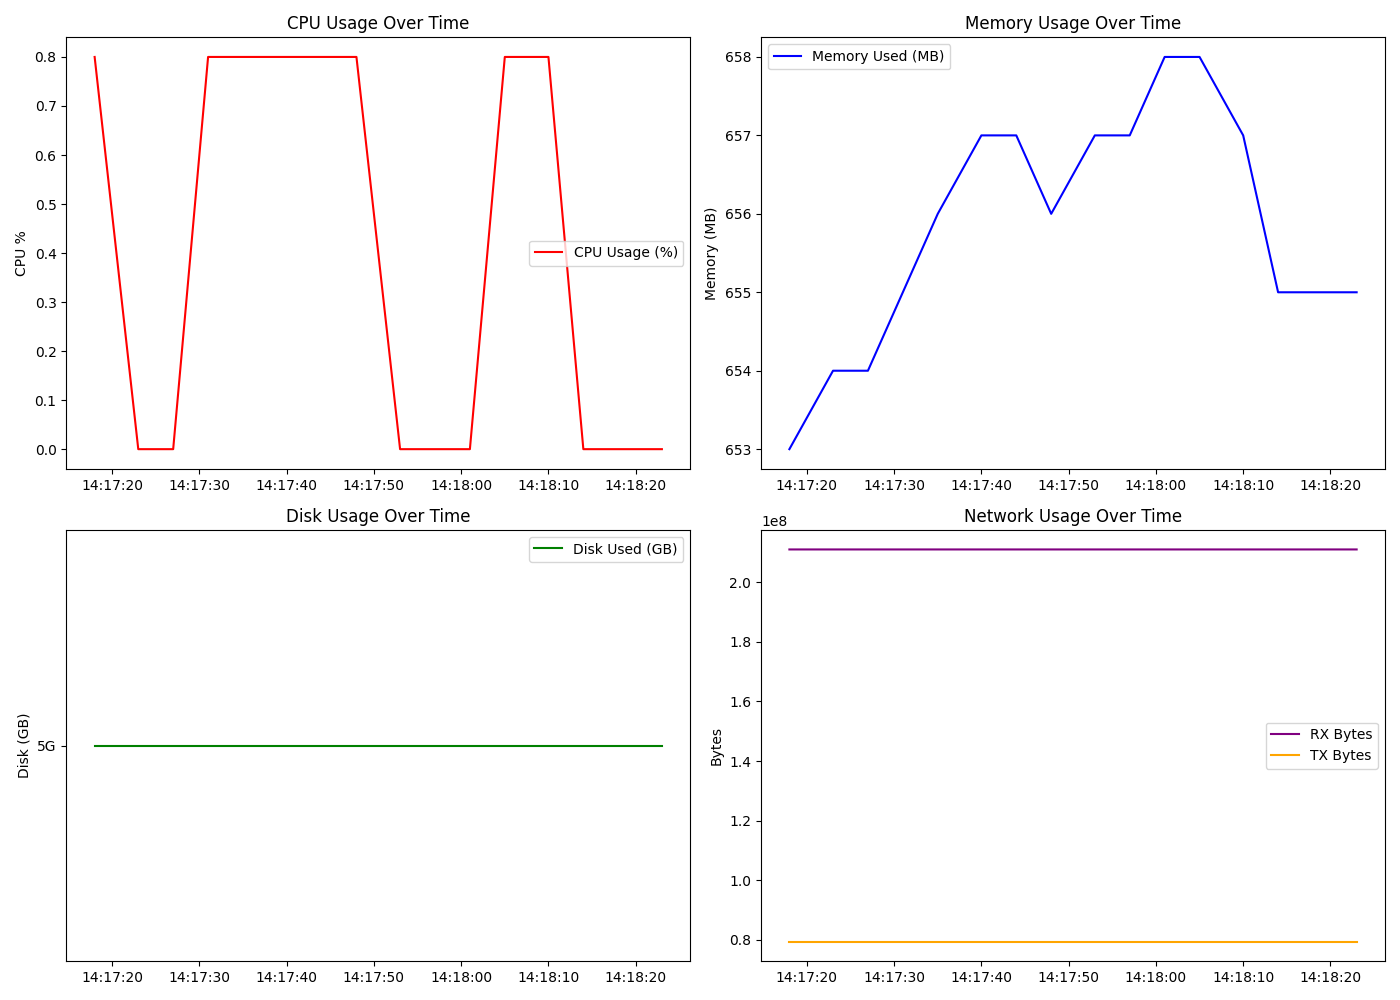
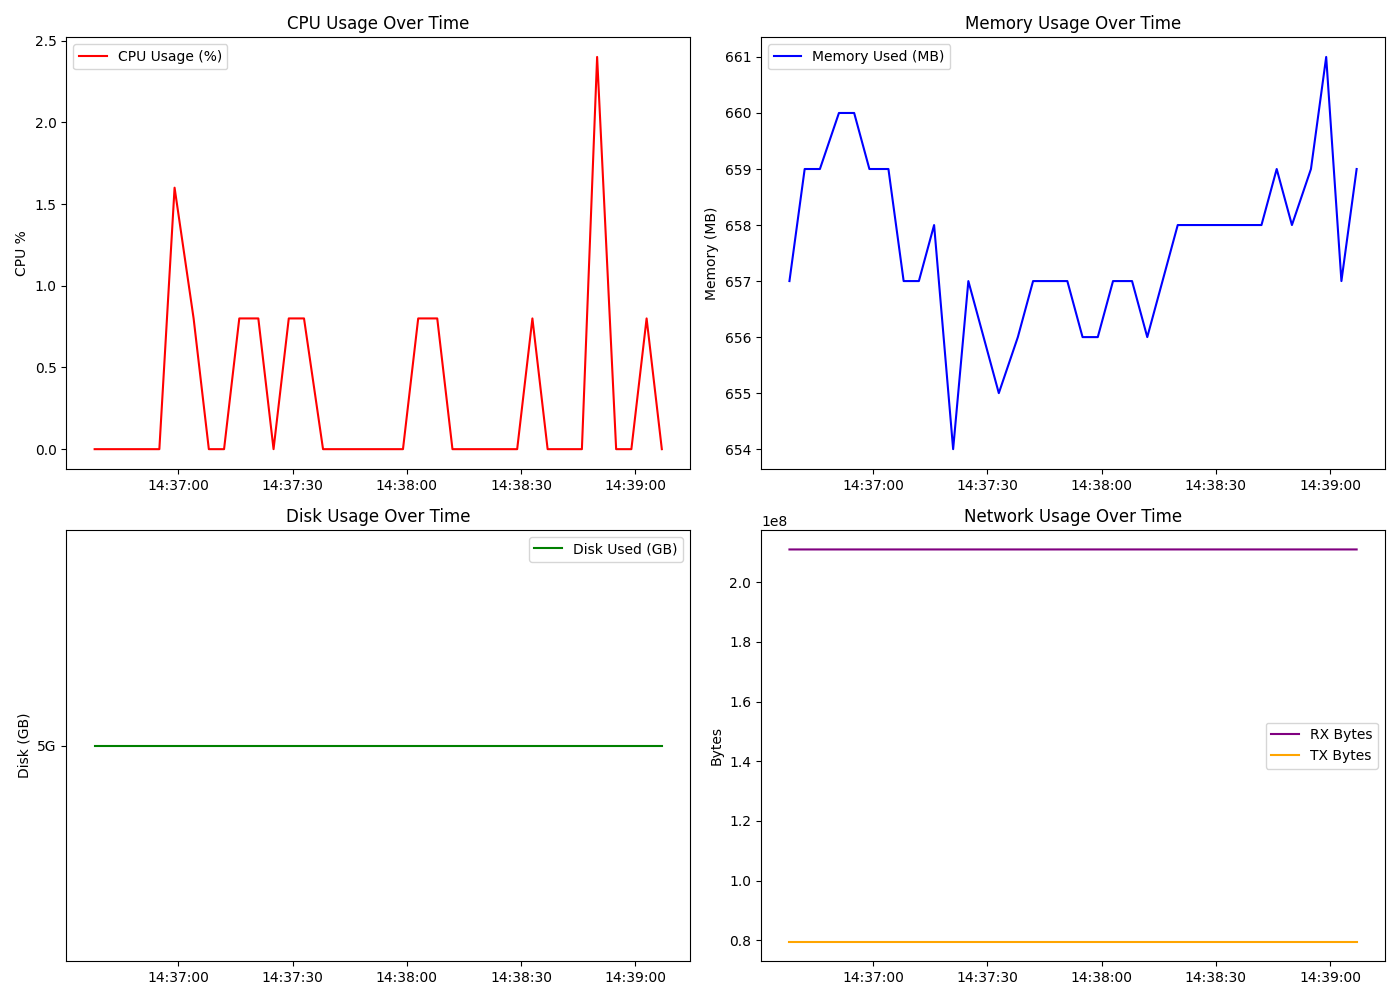
new changes

diff --git a/README.md b/README.md
@@ -1,19 +1,42 @@
 # 🖥 Linux System Monitor (Bash Script)
 
-A lightweight **system monitoring tool** written in **pure Bash**.  
-It displays real-time **CPU, memory, disk, uptime, top processes, and network usage** in your terminal.  
+A simple yet powerful **Bash-based system monitor** that tracks CPU, memory, disk, and network usage in real-time.  
+It logs all collected stats into a CSV file (`sysmon_report.csv`) for later analysis and visualization.  
 
 ---
 
-## ✨ Features
-- ✅ CPU usage with **colored alerts** (Green/Yellow/Red).  
-- ✅ Memory usage in **MB** (Used, Free, Total).  
-- ✅ Disk usage with total/used/free space.  
-- ✅ System uptime.  
-- ✅ Top 5 processes by **CPU** and **Memory**.  
-- ✅ Network statistics (**RX/TX bytes**) for `eth0`.  
-- ✅ Auto-refresh every 4 seconds.  
-- ✅ Quit anytime with `q`.  
+## 📌 Features
+- ✅ **CPU Monitoring**
+  - Color-coded CPU usage (Green <50%, Yellow <80%, Red >80%)
+  - Warning message when CPU usage is critically high
+- ✅ **Memory Monitoring**
+  - Displays used, total, and free memory (in MB)
+  - Warns when memory usage exceeds 80%
+- ✅ **Disk Usage**
+  - Shows used, total, and available space (root `/` partition)
+- ✅ **Uptime**
+  - Displays system uptime in human-readable format
+- ✅ **Top 5 Processes**
+  - By **CPU usage**
+  - By **Memory usage**
+- ✅ **Network Statistics**
+  - Tracks RX (received) and TX (transmitted) bytes for `eth0`
+- ✅ **CSV Logging**
+  - Logs all stats with timestamp into `sysmon_report.csv`
+- ✅ **User-Friendly**
+  - Refreshes every 4 seconds
+  - Quit anytime with `q + Enter`
+- ✅ **Visualization (Python)**
+  - Generates time-series plots of CPU, Memory, Disk, and Network usage
+
+---
+
+## 📂 Project Structure
+Linux-System-Monitor/
+│── sysmon.sh # Main Bash script
+│── sysmon_report.csv # Auto-generated system stats log
+│── analyze_sysmon.py # Python script for plotting CSV data
+└── README.md # Documentation
 
 ---
 
@@ -24,6 +47,13 @@ Here is a screenshot of the system monitor in action:
 ![System Summary](sysmon_summary.png)
 
 ---
+
+## 🛠 Requirements
+- Linux (tested on Ubuntu 22.04+)
+- Bash shell
+- Python 3.8+
+- pandas
+- matplotlib
 
 ## 📦 Installation
 
